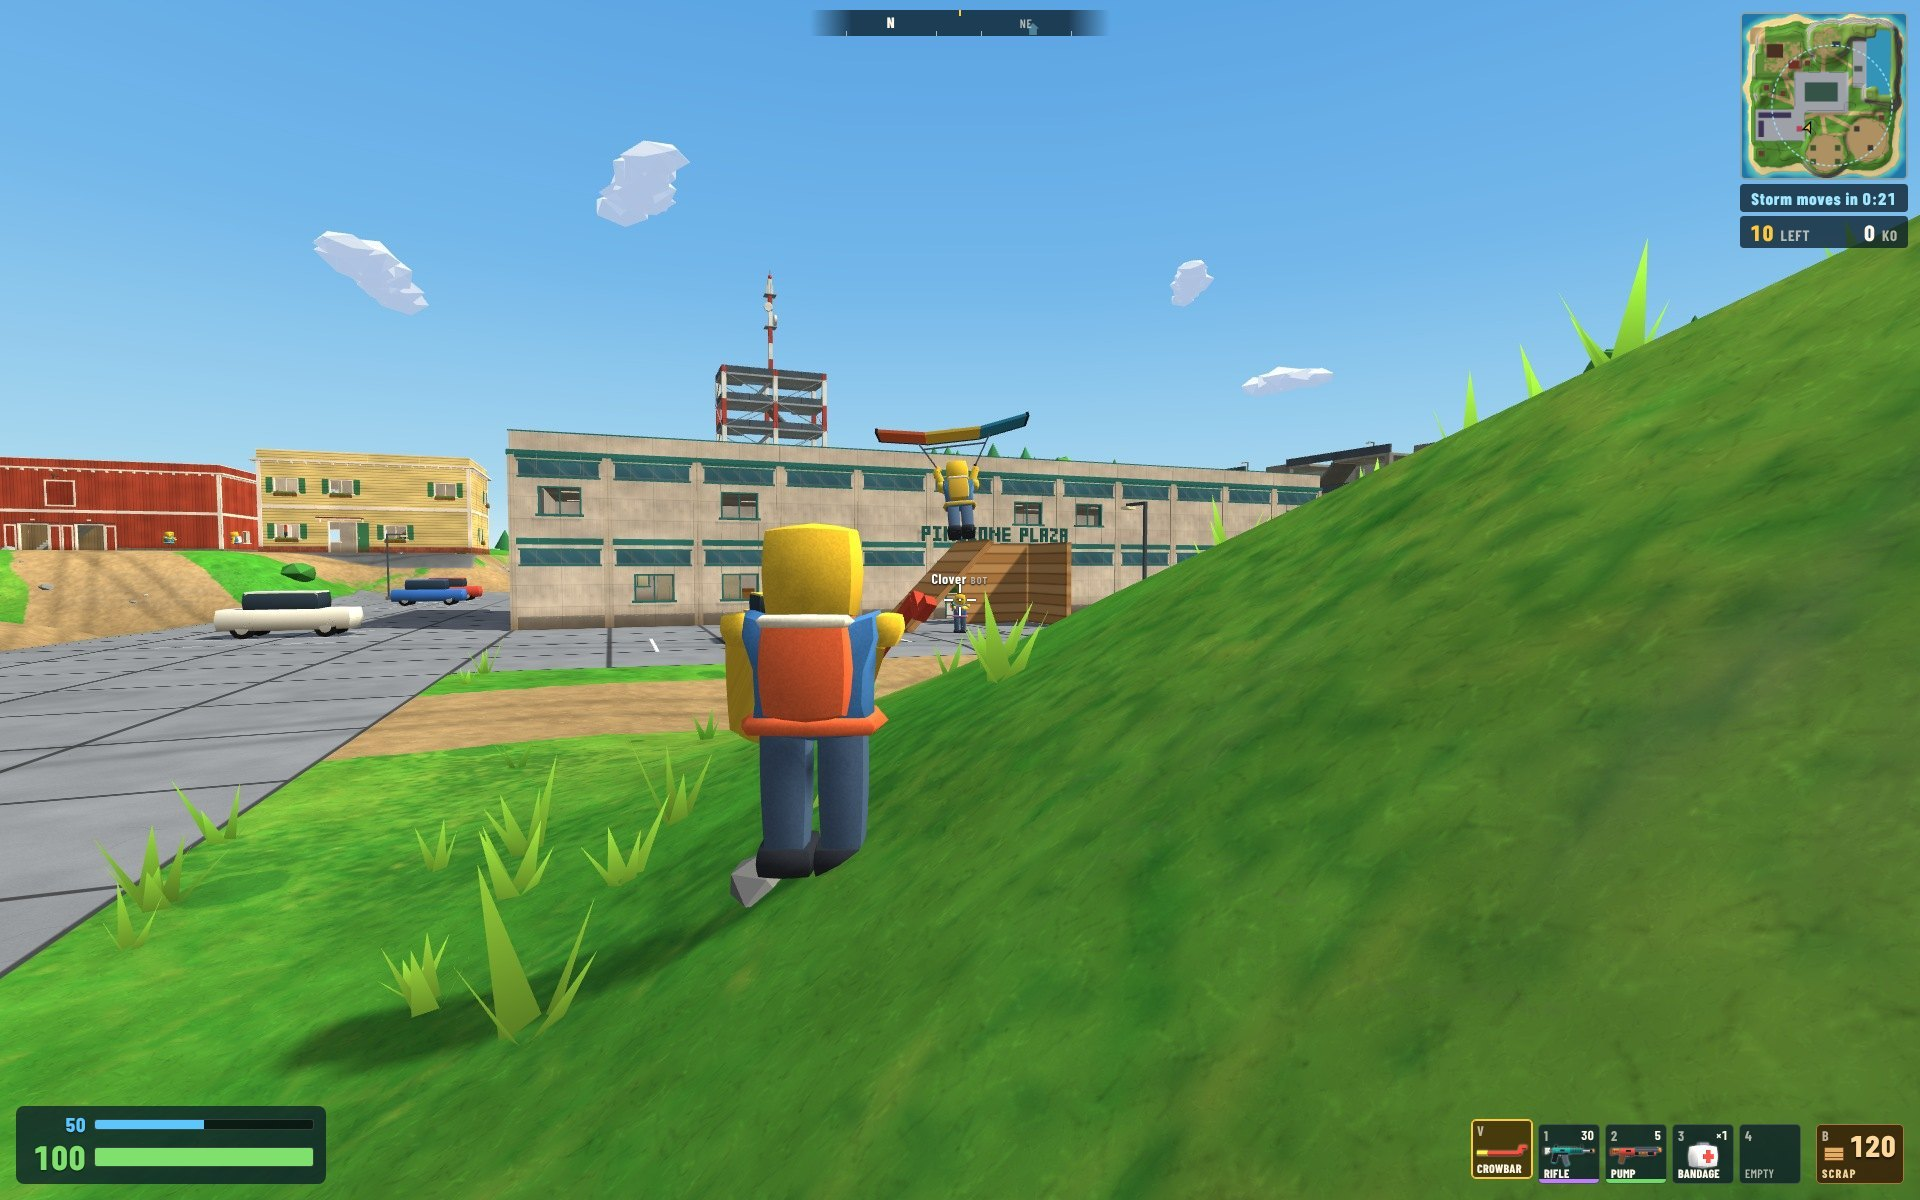
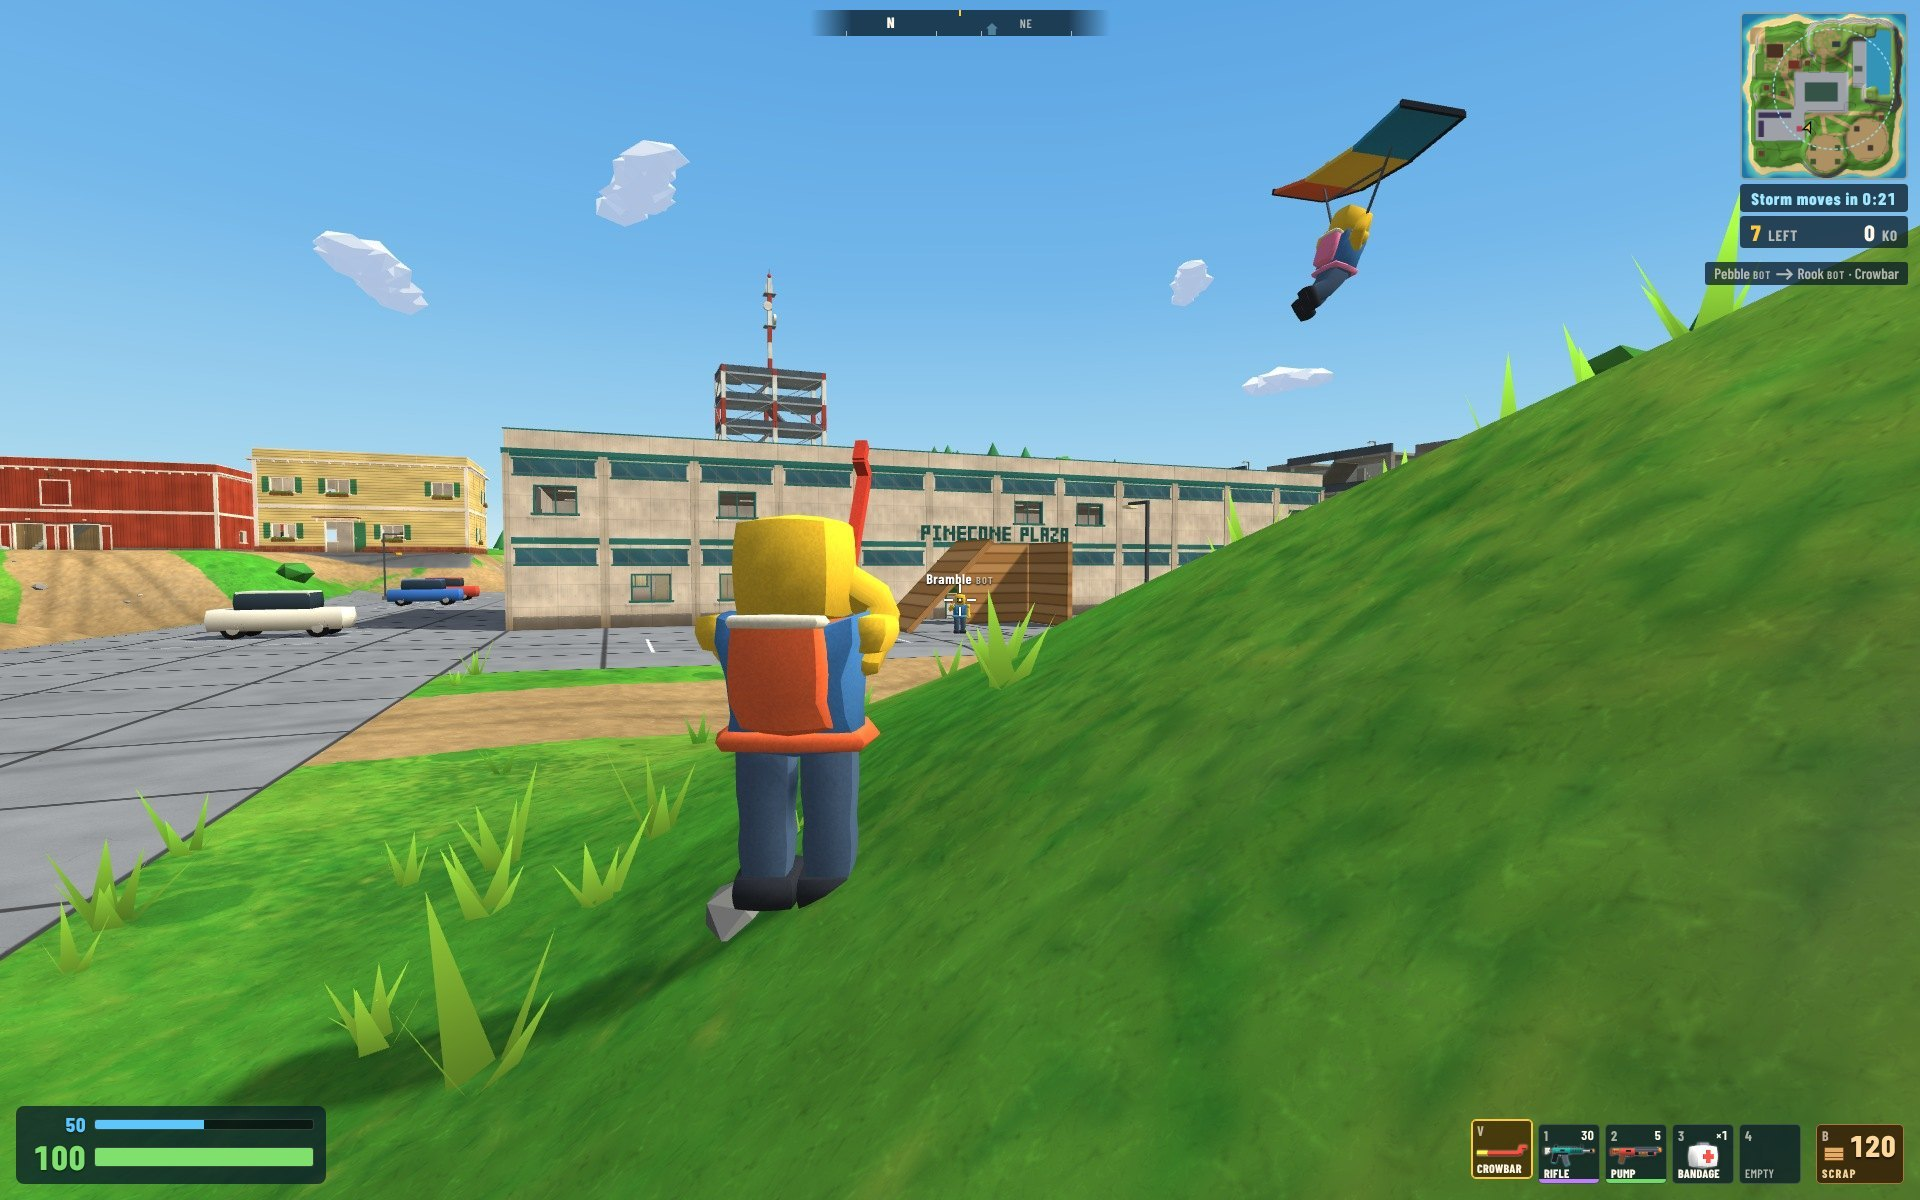
Driftfall: planted feet (steady stance), crowbar recovery outside the arm, no crowbar while the glider is open; new card picture and thumbnail
Claude-Session: https://claude.ai/code/session_01DfCR7RPoK1UNAvb7iRuPWn

diff --git a/e63334287a3deaa3/drop-zone/index.html b/e63334287a3deaa3/drop-zone/index.html
@@ -3223,12 +3223,13 @@ const POSES={rest:pose({}),
 // beside the head and cocks it back, the chest turning right and leaning back, the left hand reaching up to it; then a
 // fast arc over the top and down to the front with both hands on the handle, the chest turning left and bending forward
 // and the arms straightening (contact at 0.14 s: the spark, the whack and your camera's shake are held back to then), a
-// follow-through down and across to the left, and back to the carry by 0.44 s, just inside the crowbar's 0.45 s between hits.
+// follow-through down and across to the left, brought back up outside the right arm and back to the carry by 0.44 s, just inside the crowbar's 0.45 s between hits.
 const SWING=[[0,null],
   [.085,pose({lean:.1,turn:-.45,roll:.05,L:[1.1,.5,-.2,1.3],h:[.43,1.8,.17],bp:3.44,by:.25,lw:.35,sl:-.04,sr:.03}),2],
   [.115,pose({lean:-.05,turn:-.12,L:[1.2,.6,0,.8],h:[.18,1.9,-.22],bp:1.35,by:0,lw:1,sl:-.04,sr:.03}),1],
   [.14,pose({lean:-.3,turn:.32,roll:-.04,L:[0,.7,0,.2],h:[.06,1.36,-.56],bp:-.12,by:.1,lw:1,sl:-.04,sr:.03}),1],
   [.24,pose({lean:-.36,turn:.6,roll:-.06,L:[-.6,.9,0,.3],h:[-.12,1.02,-.36],bp:-1.05,by:.85,lw:1,sl:-.04,sr:.03}),2],
+  [.33,pose({lean:-.14,turn:.2,L:[-1.2,.5,-.1,.4],h:[.36,1.28,-.3],bp:1.7,by:-.45,sl:-.04,sr:.03}),0],   // brought back up outside the right arm, not across the face
   [.44,null]];
 const CB_POLE=new V3(1,-.7,.25);
 const SWING_HIT=140;
@@ -4774,7 +4775,7 @@ function animModel(e,dt){
   // the glider unfolds over about a fifth of a second when it opens and folds away as you land
   u.glk=clamp(u.glk+(e.glide?dt*5:-dt*6),0,1);const gl=u.glider,ge=u.glk*u.glk*(3-2*u.glk);gl.visible=u.glk>.01;
   if(gl.visible){gl.scale.set(.08+.92*ge,.4+.6*ge,.3+.7*ge);gl.rotation.set(-u.pit*.8,0,u.roll*.4)}
-  u.legs[0].visible=u.legs[1].visible=!far;u.gun.visible=!far&&!air&&u.glk<.35;
+  u.legs[0].visible=u.legs[1].visible=!far;u.gun.visible=!far&&!air&&!e.glide&&u.glk<.35;   // (not while the glider is opening or open; it comes back as the glider folds away)
   // ---- legs. On the ground each stride is as long as the ground it covers, so a planted foot doesn't slide (A: how far a
   // leg swings, at most 0.74 rad; LEG_L: hip to sole in metres). The legs swing the way the body is moving (forward,
   // backward or sideways), the knee of the leg moving with the body bends to lift its foot, and the body drops by as much
@@ -4782,11 +4783,16 @@ function animModel(e,dt){
   // the knee, fluttering; gliding: trailing behind, bent a little.
   const A=.74*Math.min(1,Math.sqrt(sp/6));
   if(e.onGround&&sp>.05)e.walk+=dt*sp*Math.PI/(2*LEG_L*Math.sin(Math.max(A,.02)));
-  const ph=e.walk,sw=e.onGround?Math.sin(ph)*A:0,cf=sp>.05?fwd/sp:1,cl=sp>.05?lat/sp:0,L0=u.legs[0],L1=u.legs[1];
+  const ph=e.walk,cf=sp>.05?fwd/sp:1,cl=sp>.05?lat/sp:0,L0=u.legs[0],L1=u.legs[1];
   const lt=u.landT>0?(u.landT-=dt,Math.sin(Math.PI*clamp(u.landT/.32,0,1))):0;
-  if(e.onGround){const kb=.12+.9*rk,c=Math.cos(ph),st=.05+.18*rk;   // the knee bends while its foot is lifted (moving with the body)
-    L0.rotation.set(sw*cf+lt*.35,0,sw*cl,'XYZ');L1.rotation.set(-sw*cf+lt*.35,0,-sw*cl,'XYZ');L0.k=st*(A>.05?1:0)+kb*Math.max(0,c)*(A>.05?1:0)+lt*.75;L1.k=st*(A>.05?1:0)+kb*Math.max(0,-c)*(A>.05?1:0)+lt*.75;
-    m.position.y-=(.9*(1-Math.cos(Math.abs(sw)))+.03*rk*Math.abs(Math.sin(2*ph))+lt*.09)*BS}
+  if(e.onGround){
+    // each leg's half-cycle on the ground moves its foot back under the hip at a steady pace (the angle whose sine runs
+    // evenly from sin A to -sin A, measured from straight down rather than from the leaning body), so the planted foot stays
+    // put; the other half swings it forward again with the knee bent
+    const on=A>.05?1:0,kb=(.15+.95*rk)*on,st=(.03+.07*rk)*on,sA=Math.sin(A);let drop=0;
+    for(let j=0;j<2;j++){const L=j?L1:L0,p=((ph/(2*Math.PI)+j*.5)%1+1)%1,x=p<.5?1-4*p:-Math.cos(2*Math.PI*(p-.5)),a=Math.asin(clamp(x*sA,-1,1));
+      L.rotation.set(a*cf+lt*.35-u.pit,0,a*cl,'XYZ');L.k=st+(p<.5?0:kb*Math.sin(2*Math.PI*(p-.5)))+lt*.75;if(p<.5)drop=.9*(1-Math.cos(a))}
+    m.position.y-=(drop+lt*.09)*BS}
   else if(air){const f=Math.sin(now*.017)*.07*fl,g=Math.sin(now*.021+1)*.07*fl;
     L0.rotation.set((1-jumpK)*-.18+jumpK*.32+f,0,-.32*(1-jumpK)-.08*jumpK,'XYZ');L1.rotation.set((1-jumpK)*-.18-jumpK*.12+g,0,.32*(1-jumpK)+.08*jumpK,'XYZ');L0.k=1.25*(1-jumpK)+.95*jumpK+f;L1.k=1.15*(1-jumpK)+.5*jumpK-g}
   else{const gw=e.glide?Math.sin(now*.005)*.06*fl:0;L0.rotation.set(-.28+gw,0,-u.roll*.25,'XYZ');L1.rotation.set(-.36-gw,0,-u.roll*.25,'XYZ');L0.k=.35+gw;L1.k=.45-gw}
@@ -4803,7 +4809,7 @@ function animModel(e,dt){
   if(air&&jumpK>0)for(let i=0;i<POSE_N;i++)pf[i]+=(POSES.jump[i]-pf[i])*jumpK;
   if(air&&fl){const t=now*.001;pf[2]+=Math.sin(t*19)*.05;pf[5]+=Math.sin(t*17+2)*.05;pf[12]+=Math.sin(t*23+1)*.08;pf[13]+=Math.sin(t*21)*.08;pf[14]+=Math.sin(t*13)*.03}   // the air shaking the arms
   u.hipT=0;
-  if(e.onGround&&sp>.05){const c=Math.cos(ph),s=Math.sin(ph)*Math.min(1,A/.5);
+  if(e.onGround&&sp>.05){const c=Math.sin(ph),s=Math.cos(ph)*Math.min(1,A/.5);
     // running: the chest turns against the hips, leans in more the faster, and bobs; with the crowbar out (both arms free
     // of a weapon) the arms swing from the shoulders against the legs, elbows bent, the bar arm less
     u.hipT=s*.14*cf;pf[1]-=s*(.22*u.cbw+.12*(1-u.cbw))*cf;pf[0]-=(.05+.09*u.cbw)*rk*cf;pf[14]+=c*.03*rk;
